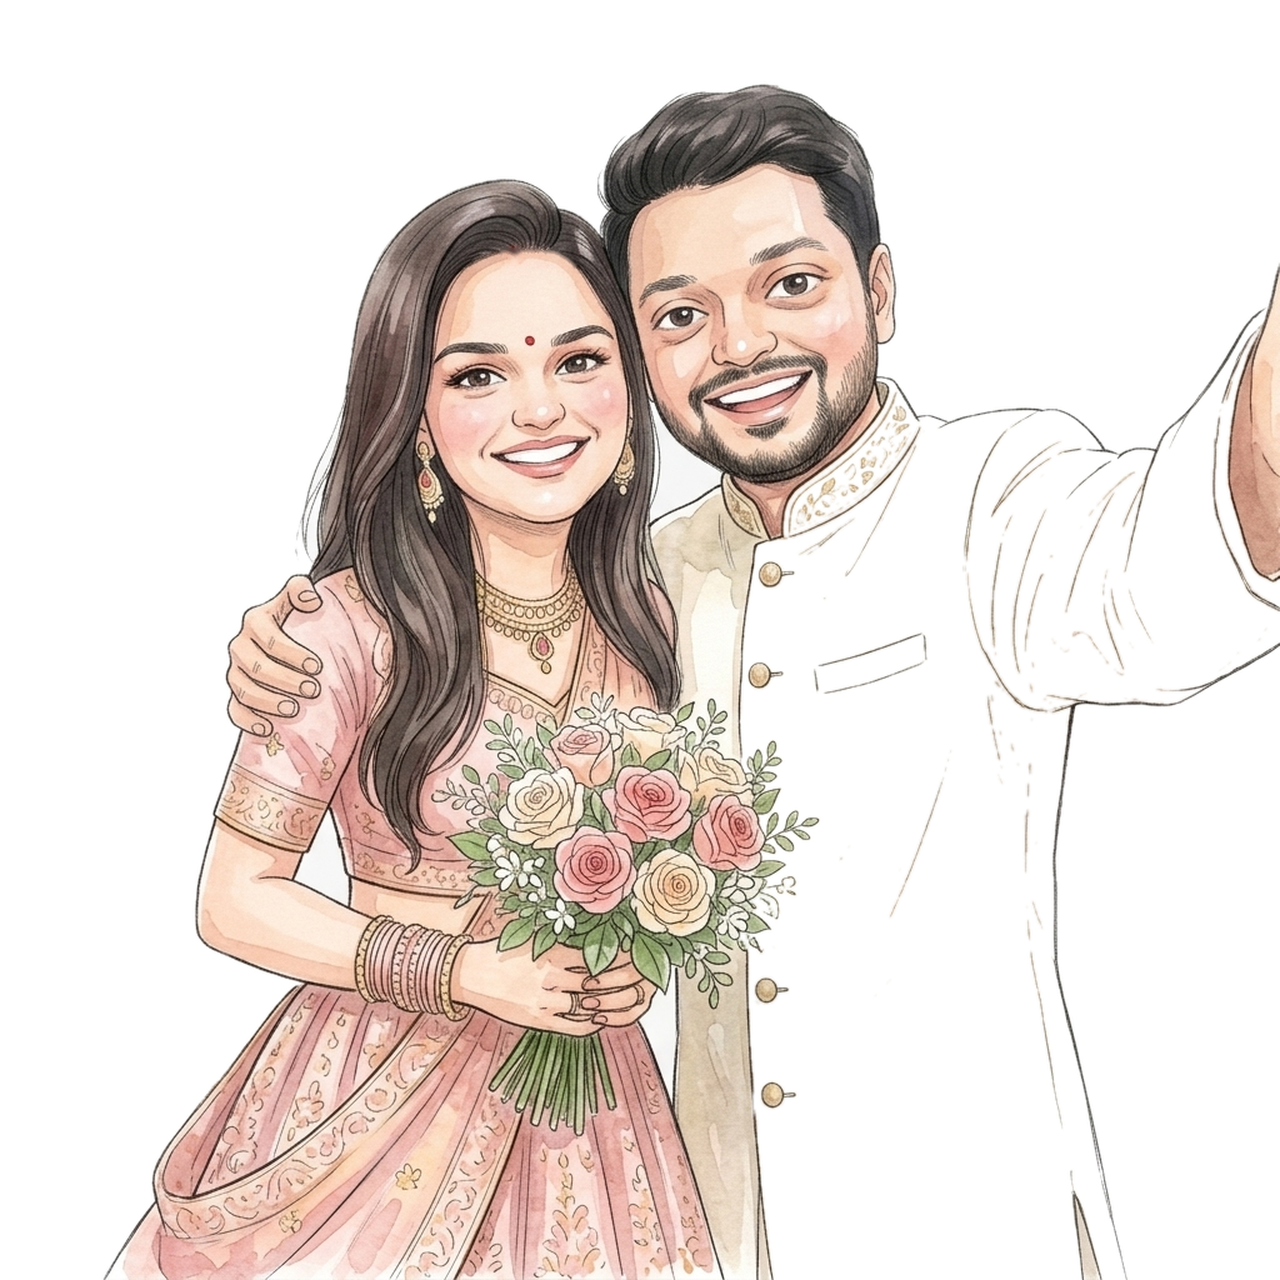
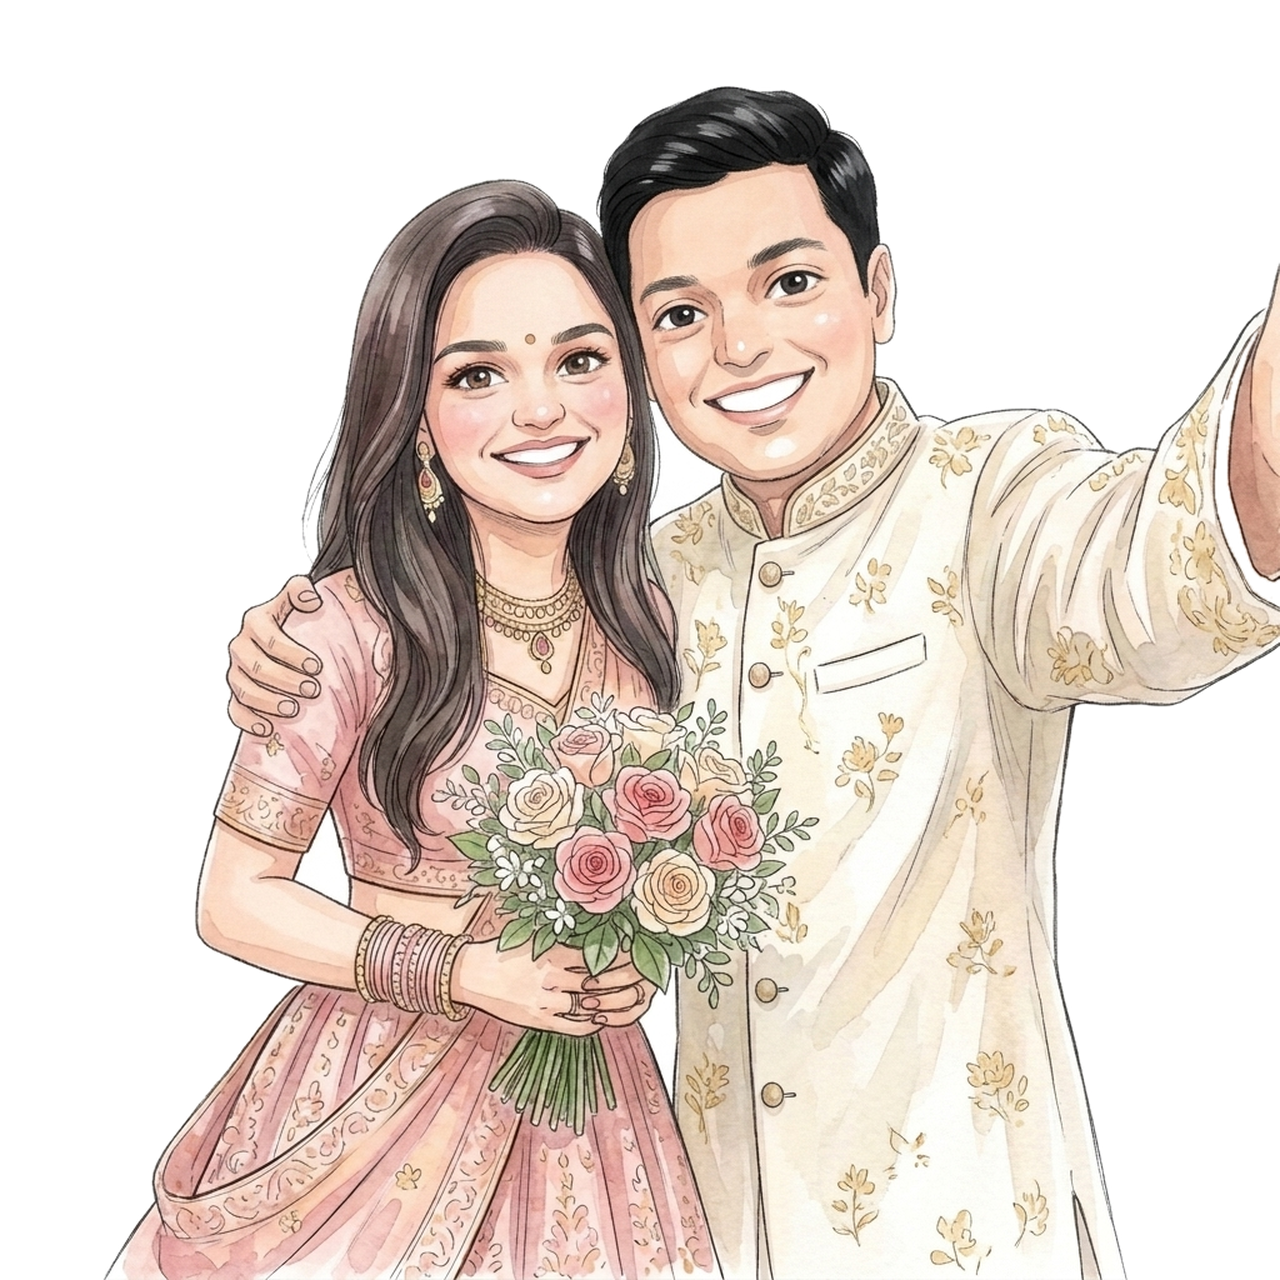
Update couple artwork with clean-shaven groom (no beard) in Studio Ghibli watercolor anime style

diff --git a/EDITING.md b/EDITING.md
@@ -71,7 +71,7 @@ Interactive day tabs: `Day 1 (3 Dec)`, `Day 2 (4 Dec)`, and `Day 3 (5 Dec)`. Cli
 
 ### 8. Images
 Configured in `editable/assets/` or `images` in `wedding-data.js`:
-- `couple`: Studio Ghibli watercolor anime couple selfie without sindoor (`couple.png`)
+- `couple`: Studio Ghibli watercolor anime couple selfie with clean-shaven groom (no beard) and bride without sindoor (`couple.png`)
 - `mosque`: Japanese castle / fort illustration on map (`mosque.png`)
 - `bouquet`: Bouquet graphic (`bouquet.png`)
 - `gramophone`: Gramophone music icon (`gramophone.png`)
